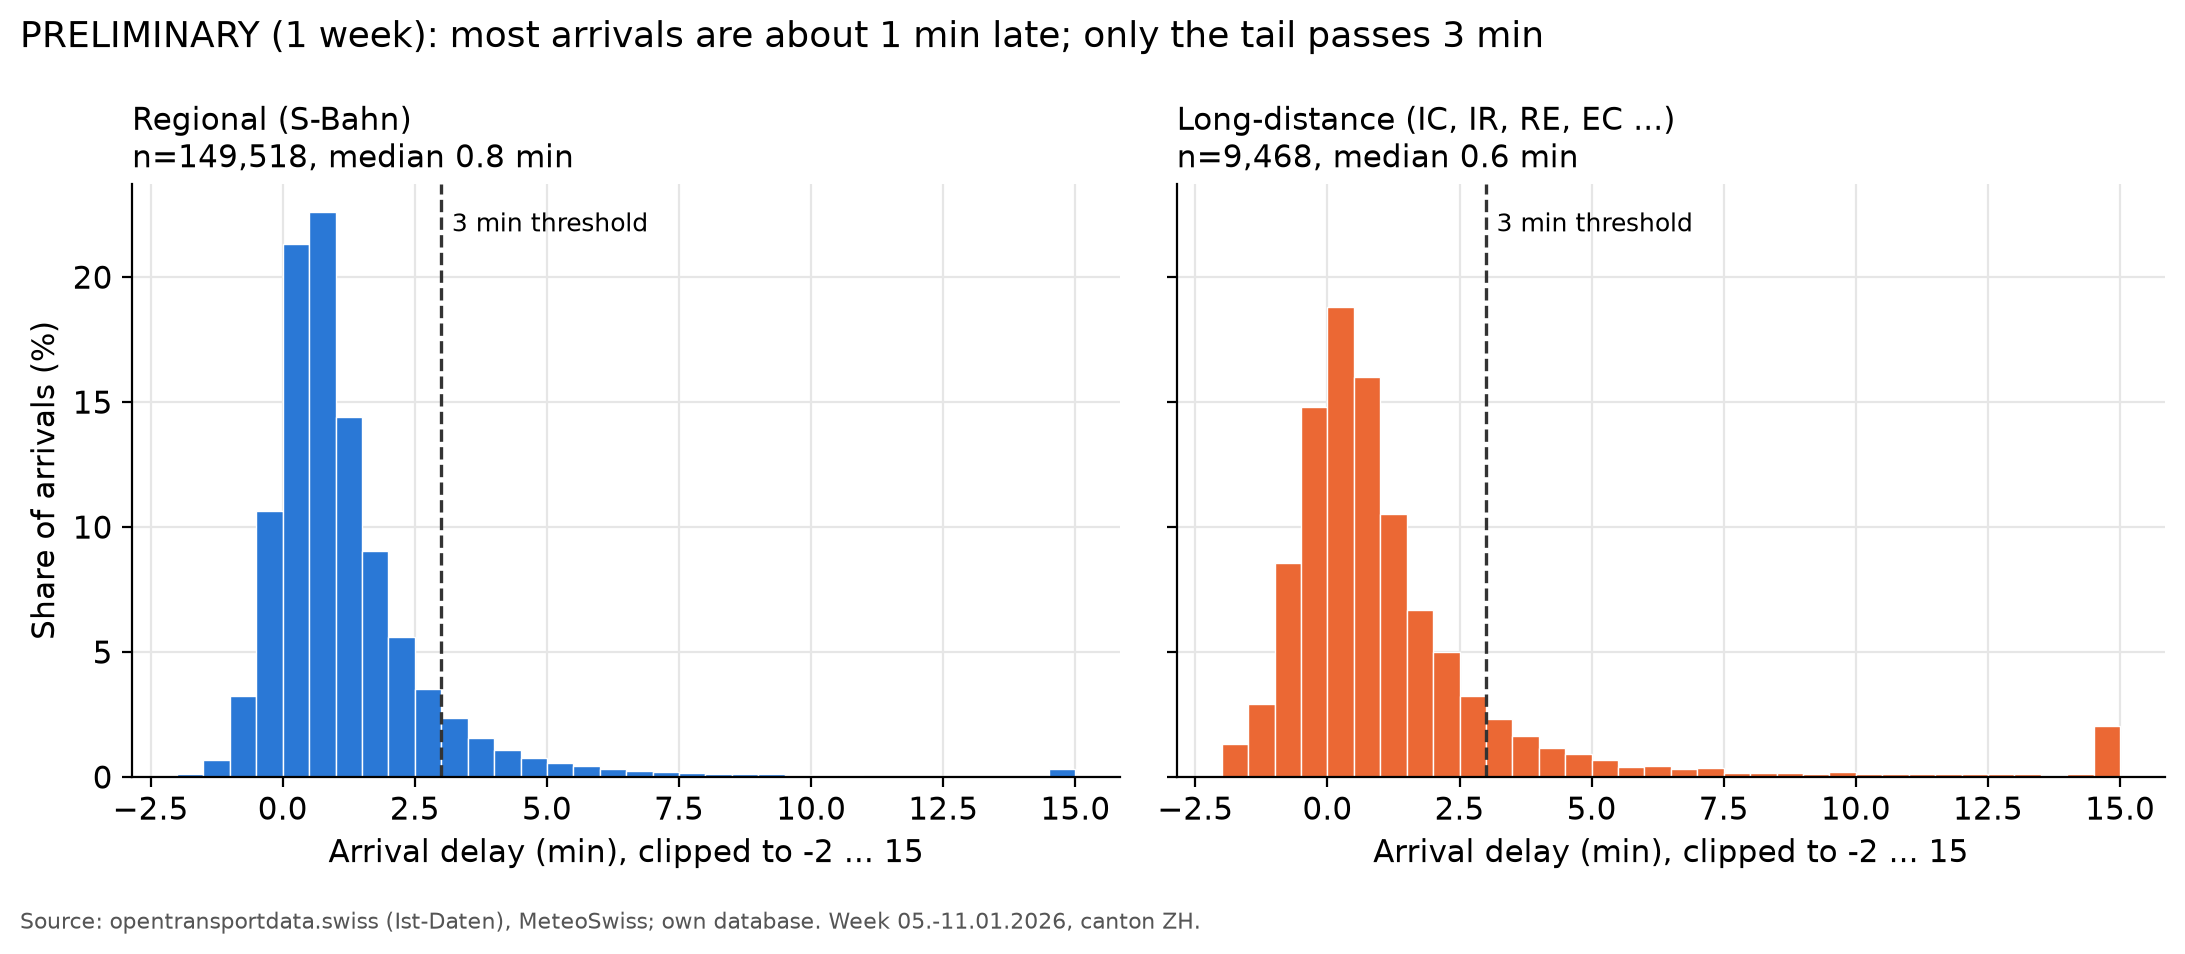
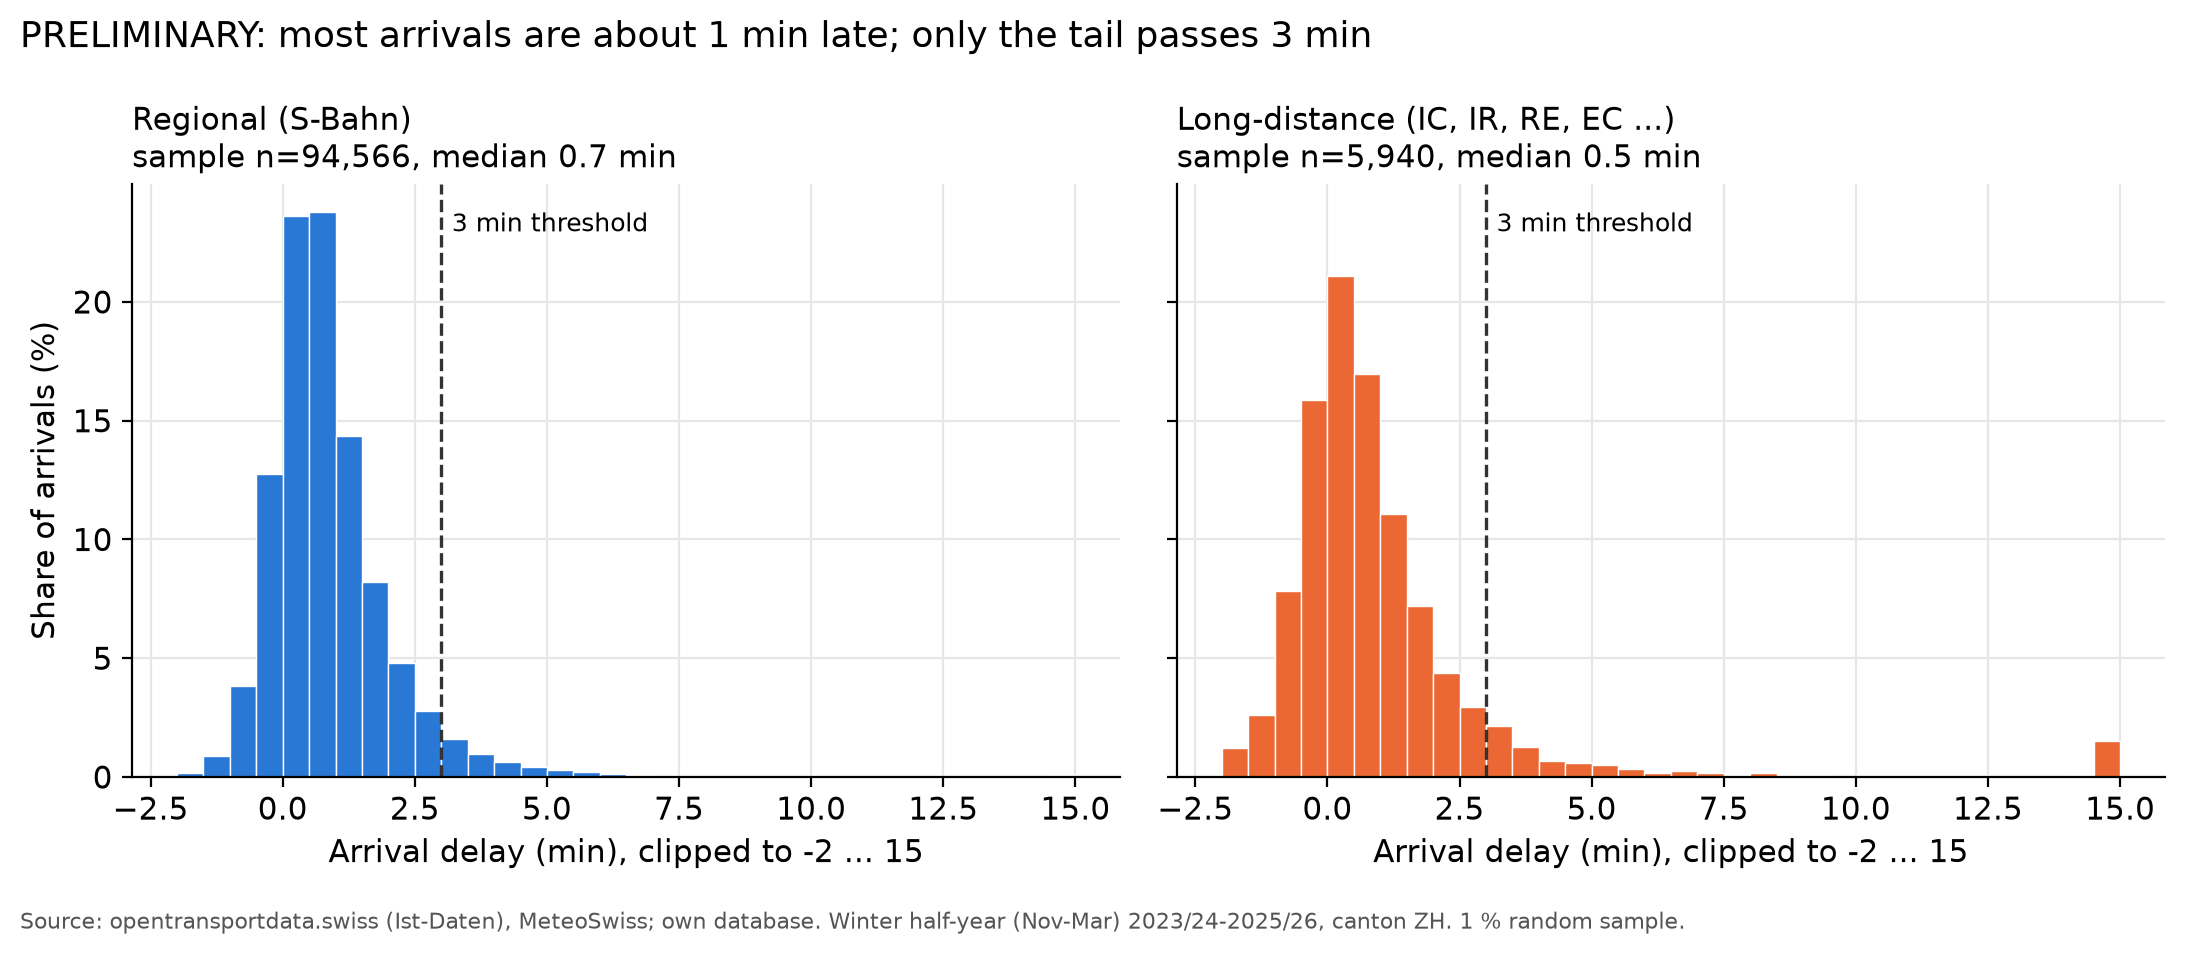
Full build: safety rules for entry delay, quality report incl. duplicates, EDA and slide figures on the full period, docs for checkpoint 3

diff --git a/tests/test_entry_delay.py b/tests/test_entry_delay.py
@@ -66,16 +66,22 @@ def check_database():
     bad_same = query("""
         SELECT COUNT(*) AS n FROM arrivals
         WHERE entry_delay_min IS NOT NULL AND entry_from_bpuic = bpuic""")["n"][0]
-    # Times are 'YYYY-MM-DD HH:MM:SS' text in UTC, so text comparison = time comparison
+    # Times are 'YYYY-MM-DD HH:MM:SS' text in UTC, so text comparison = time comparison.
+    # Equal minute is allowed: scheduled times are rounded to minutes, and two stops can
+    # be one minute apart; the departure there still happens before the arrival here.
     bad_time = query("""
         SELECT COUNT(*) AS n FROM arrivals
-        WHERE entry_delay_min IS NOT NULL AND NOT (entry_from_time_utc < sched_arr_utc)""")["n"][0]
+        WHERE entry_delay_min IS NOT NULL AND NOT (entry_from_time_utc <= sched_arr_utc)""")["n"][0]
+    same_minute = query("""
+        SELECT COUNT(*) AS n FROM arrivals
+        WHERE entry_delay_min IS NOT NULL AND entry_from_time_utc = sched_arr_utc""")["n"][0]
+    print(f"info: {same_minute} rows where the source departure and this arrival have the same scheduled minute")
     total = query("SELECT COUNT(*) AS n, SUM(CASE WHEN entry_delay_min IS NOT NULL THEN 1 ELSE 0 END) AS with_value FROM arrivals")
     assert bad_inside == 0, f"{bad_inside} rows take entry_delay from a stop inside the area"
     assert bad_same == 0, f"{bad_same} rows take entry_delay from their own stop"
     assert bad_time == 0, f"{bad_time} rows take entry_delay from a departure not before the arrival"
     print(f"OK database: {int(total.with_value[0]):,} of {int(total.n[0]):,} rows with a value; all from a stop "
-          "outside the area, never the own stop, always departed before the scheduled arrival")
+          "outside the area, never the own stop, departed before or in the same scheduled minute as the arrival")
 
     nulls = query("""
         SELECT traffic_type, COUNT(*) AS arrivals,

diff --git a/src/arrivals.py b/src/arrivals.py
@@ -105,6 +105,14 @@ def prepare_arrivals(raw, stop_ids):
                  "sched_dep_utc": "entry_from_time_utc"})
     # Left merge: every row keeps its place; trips without a stop before the area get NaN
     df = df.merge(entry, on="FAHRT_BEZEICHNER", how="left")
+    # Safety rules (found in the full build: 19 rows on 18 days):
+    # - a source departure scheduled AFTER this arrival cannot be known before it -> NULL
+    #   (equal minute is fine: stops one minute apart, times rounded to minutes)
+    # - departure delays outside the plausibility limits are data errors -> NULL
+    late_source = df["entry_from_time_utc"] > df["sched_arr_utc"]
+    df.loc[late_source, ["entry_delay_min", "entry_from_bpuic", "entry_from_time_utc"]] = pd.NA
+    for col in ["prev_dep_delay_min", "entry_delay_min"]:
+        df.loc[~df[col].between(DELAY_MIN_LIMIT, DELAY_MAX_LIMIT), col] = float("nan")
 
     # Delay gain since the previous stop. ATTENTION: contains this arrival's delay,
     # so it is an alternative OUTCOME, never a model feature (leakage).

diff --git a/src/quality_report.py b/src/quality_report.py
@@ -54,7 +54,7 @@ def main():
     day_rows = log[log.step.isin(days)]
     metrics = ["raw_rows", "raw_trip_rows", "removed_outside_area", "area_rows", "removed_no_scheduled_arrival",
                "removed_pass_through", "removed_cancelled", "removed_not_real", "removed_other_category",
-               "removed_implausible_delay", "times_not_convertible", "arrivals"]
+               "removed_implausible_delay", "removed_duplicate", "times_not_convertible", "arrivals"]
     totals = day_rows[day_rows.metric.isin(metrics)].groupby("metric")["value"].sum().reindex(metrics)
     totals = totals.astype("Int64").reset_index().rename(columns={"value": "rows (all days)"})
     add("Filter steps summed over all days", totals)

diff --git a/docs/integration-log.md b/docs/integration-log.md
@@ -12,6 +12,8 @@ Required for grading: document how the sources were combined – keys, joins, in
 | MeteoSwiss SMN, hourly | STAC `ch.meteoschweiz.ogd-smn`, 18 stations, `h_historical_2020-2029` + `h_recent`, script `src/weather.py` | 01.01.2020 – 02.11.2026 (PFA from 08.12.2022) | 59,952 hours per station (PFA 34,214) | 2026-11-03 | ER (Claude Code) |
 | MeteoSwiss precipitation network, hourly | STAC `ch.meteoschweiz.ogd-smn-precip`, 16 stations used, `h_historical_2020-2029` + `h_recent`, script `src/weather.py` | 01.11.2023 – 31.03.2026 used | complete: 24 × days rows per month, 0 missing values (`tests/test_weather_complete.py`) | 2026-11-03 | ER (Claude Code) |
 | Ist-Daten v1 (archive) | `archive.opentransportdata.swiss/istdaten/2026/ist-daten-2026-01.zip` (1.37 GB), entry page `archive.opentransportdata.swiss/actual_data_archive.htm`, script `src/istdaten.py` | prototype week 05.–11.01.2026 | 16,662,533 (7 days) | 2026-11-03 | ER (Claude Code) |
+| Ist-Daten v1 (archive), full study period | 15 monthly ZIPs `ist-daten-YYYY-MM.zip`, Nov–Mar 2023/24–2025/26, 16 GB on disk (kept until after submission) | 454 days, 450 loaded | 1,005,650,252 | 2026-11-04 | ER (Claude Code) |
+| MeteoSwiss manual stations (validation only) | STAC `ch.meteoschweiz.ogd-nime`, daily fresh snow `hns000d0`, 7 stations co-located with SMN | study period | – | 2026-11-04 | ER (Claude Code) |
 | MeteoSwiss SMN, metadata | `ogd-smn_meta_stations.csv` (159 stations), `_meta_parameters.csv` (181 parameters), `_meta_datainventory.csv` | – | – | 2026-11-03 | ER (Claude Code) |
 
 ## Cleaning and filter steps
@@ -28,6 +30,15 @@ Required for grading: document how the sources were combined – keys, joins, in
 | F3f | same | category S or long-distance list | 160,831 | 158,988 | 1,843 | 1,830 night S-Bahn `SN` (Sat/Sun 00–04 h): excluded, decided by ER 2026-11-03, because no long-distance trains run at that time (night hours would exist for one group only); RJ (3/day) is long-distance since Checkpoint 2; EXT excluded |
 | F3g | same | arrival delay between −15 and +300 min | 158,988 | 158,986 | 2 | implausible values (limits = proposal, Checkpoint 2) |
 | F3h | same | local → UTC conversion | 158,986 | 158,986 | 0 | no time in the spring-forward gap (`tests/test_dst.py`) |
+| F4 | Ist-Daten full study period (450 days, `python -m src.build_db --study-period`, `src/quality_report.py`) | same rules as F3, plus duplicates | 1,005,650,252 raw → 18,746,168 trip rows → 11,599,296 in ZH | 10,104,173 | – | see F4a–F4h |
+| F4a | same | scheduled arrival exists | 11,599,296 | 10,811,815 | 787,481 | first stop of a trip |
+| F4b | same | no pass-through | 10,811,815 | 10,809,325 | 2,490 | train does not stop |
+| F4c | same | not cancelled | 10,809,325 | 10,666,795 | 142,530 | decision ER (count reported) |
+| F4d | same | status REAL | 10,666,795 | 10,230,541 | 436,254 | decision ER |
+| F4e | same | category S or long-distance (incl. RJ) | 10,230,541 | 10,107,193 | 123,348 | mainly night S-Bahn `SN`, EXT, PE |
+| F4f | same | delay −15 … +300 min | 10,107,193 | 10,104,207 | 2,986 | implausible values |
+| F4g | same | exact duplicate rows in the source | 10,104,207 | 10,104,173 | 34 | same trip, stop and time twice (6 days) |
+| F4h | same | departure delays used as predictors: −15 … +300 min, source departure not after the arrival | 10,104,173 | 10,104,173 | 0 rows, 19 values set to NULL | data errors (e.g. RJX with −116 min) |
 | F2 | Ist-Daten 21.10.2026 | `PRODUKT_ID = 'Zug'` and `BPUIC` in the 182 ZH stops, 16 of 23 columns kept | 2,583,004 | 25,549 | 2,557,455 | other modes (bus, tram …) and stops outside ZH. 156 of 182 stops have rows; the 26 missing are mostly Forchbahn S18 stops, which the data codes as `PRODUKT_ID = 'Tram'` with 9-digit BPUIC |
 
 ## Joins
@@ -38,6 +49,8 @@ Required for grading: document how the sources were combined – keys, joins, in
 | J2 → table `stop_station` (2026-11-03) | 182 ZH train stops | precipitation: 17 SMN + 142 `ogd-smn-precip` stations; temperature: 17 SMN | nearest neighbour in LV95, `sjoin_nearest`, ties → first station | left | 182 | 182 | 0 unmatched, 0 duplicates | precipitation: median 3.6 km, max 10.3 km, 1 stop > 10 km; temperature: median 7.4 km, max 14.9 km, 36 stops > 10 km. 26 stations used (`weather_stations`) |
 
 | J3 → table `analysis_base` (SQL, `src/analysis_base.sql`) | `arrivals` (week 05.–11.01.2026) | `stops`, `stop_station`, `weather_hourly` (twice: precipitation station, temperature station), `calendar_days` | `bpuic`; (`precip_station`, `weather_hour_utc`) = (`station_abbr`, `time_utc`); (`temp_station`, `weather_hour_utc`); `local_date` | inner (stops, stop_station), left (weather, calendar) | 158,986 | 158,986 | 0 lost; 0 without precipitation, 0 without temperature, 0 without calendar | weather hour = scheduled arrival in UTC floored to the hour = last full hour before arrival. 5 rows checked by hand against the raw CSV and the raw MeteoSwiss files: all match (Checkpoint 2) |
+
+| J4 → `analysis_base` full period | `arrivals` (10,104,173) | as J3 | as J3 | as J3 | 10,104,173 | 10,104,173 | 0 lost; 0 without precipitation, 26 without temperature (sensor gaps, all dry hours, so `precip_cat` is set), 0 without calendar | quality report `data/processed/quality_report.md`; tests `test_dst`, `test_weather_complete`, `test_entry_delay` pass |
 
 ## Inconsistencies found
 
@@ -52,3 +65,7 @@ Required for grading: document how the sources were combined – keys, joins, in
 | 2026-11-03 | No official Christmas school-holiday dates found for 2023/24 and 2024/25 | calendar | derived from the binding canton rule (KW 52 + KW 1), marked as derived in `src/calendar_zh.py` |
 | 2026-11-04 | Snow definition vs. measured fresh snow (`ogd-nime`, 7 co-located stations) | 3,161 station-days | hit rate 75 %, precision 65 % → definition kept, limitation named |
 | 2026-11-03 | 21.10.2026: 1,169 cancelled rows at ZH stops (4.6 %), 686 of them S10 (SZU) | 1,169 | VERIFY cause (planned construction work?) |
+| 2026-11-04 | Archive ZIP 2025-01: the days 28.–31.01.2025 are compressed with **Deflate64** (ZIP method 9), which Python's `zipfile` and Windows `tar` cannot read | 4 of 454 days missing | open: proposal to add the package `zipfile-deflate64` (needs ER's OK); the build logs them as ERROR and loads them on the next run |
+| 2026-11-04 | 34 exact duplicate rows in the source (6 days, lines S17, S29, S1, IR35, IR46) | 34 | removed (F4g) |
+| 2026-11-04 | Night trains of 31.03.2026 arrive on 01.04. → no calendar day | 523 | calendar extended to 01.04.2026 |
+| 2026-11-04 | Departure at the stop before the area scheduled after the area arrival (RJX, 09.03.2024, −116 min); 18 implausible departure delays | 19 values | set to NULL (F4h); test `test_entry_delay` checks it |

diff --git a/docs/project-state.md b/docs/project-state.md
@@ -41,7 +41,7 @@ Cross-cutting, each person takes a share: GitHub, AI log, slides, video.
 
 | Source | Access | Status |
 |---|---|---|
-| Ist-Daten (daily files) | **by script**: portal (DCAT catalogue, last ~30 days) + archive (monthly ZIPs since 2016) | prototype week 05.–11.01.2026 in the DB: 158,986 arrivals (`src/build_db.py`); full period (15 ZIPs, 17.05 GB) waits for ER's OK |
+| Ist-Daten (daily files) | **by script**: portal (DCAT catalogue, last ~30 days) + archive (monthly ZIPs since 2016) | **done** for 450 of 454 days: 10,104,173 arrivals in `analysis_base` (SQLite, 5.0 GB); 28.–31.01.2025 missing (Deflate64, open) |
 | MeteoSwiss Open Data – STAC API | Web API (`ogd-smn` + `ogd-smn-precip`) | 26 stations used, hourly, complete for all 15 study months (`tests/test_weather_complete.py`) |
 | Service point directory (stop coordinates) | download by script (`service-point-v2`) | 182 ZH train stops; table `stop_station` (precipitation median 3.6 km, temperature 7.4 km) |
 
@@ -106,7 +106,11 @@ Full Moodle text captured 2026-10-28 → `docs/grading.md`.
 | 2026-11-03 | Precipitation from SMN + `ogd-smn-precip`, temperature from SMN, HOE excluded | median distance 7.4 → 3.6 km |
 | 2026-11-03 | Effect measure: absolute (pp) primary, risk ratio as robustness check | intuitive |
 | 2026-11-03 | Study period: winter half-year (Nov–Mar) 2023/24–2025/26 | more dry/rain hours, three winters |
-| 2026-11-03 | Controls: winter, month, holiday (incl. school holidays), hour, weekday, rush_hour | confounding; school holiday definition open (Sportferien differ per municipality) |
+| 2026-11-03 | Controls: winter, month, holiday, hour, weekday, rush_hour (Mon–Fri 06:00–08:59, 16:00–18:59 local) | confounding |
+| 2026-11-03 | holiday = legal public holidays + Christmas school holidays (2023/24, 2024/25 derived from the canton rule KW 52 + 1); Sportferien not modelled (limitation) | only Christmas holidays are binding canton-wide |
+| 2026-11-03 | Night S-Bahn `SN` excluded; `RJ` = long-distance; delays outside −15 … +300 min removed | night hours exist only for regional traffic; data errors |
+| 2026-11-03 | `entry_delay_min` = departure delay at the last stop before the area (NULL if the trip starts inside); `delay_gain_min` = outcome, never a feature | no leakage (tested) |
+| 2026-11-03 | Raw ZIPs kept until after submission; `analysis_base` as table built by SQL | reproducibility; SQL join provable and fast |
 
 ## Change log
 
@@ -119,3 +123,4 @@ Full Moodle text captured 2026-10-28 → `docs/grading.md`.
 - 2026-11-03 ER: concept presentation skeleton (`presentation/concept_presentation_group_03.pptx`) and checklist (`docs/concept-presentation-checklist.md`) added. Dry run moved from Sun 15.11. to Mon 16.11. (ER away 07.–15.11.), slide draft stays with LS and LK.
 - 2026-11-03 ER: data collection Phase 1 (sources explored, VERIFY results in `research-design.md`, logs). Waiting at Checkpoint 1 for the DECIDE items and the study period.
 - 2026-11-03 ER: Checkpoint 1 decisions recorded (#5, #9 closed). Phase 2 prototype end-to-end: schema, week 05.–11.01.2026 in SQLite, SQL join `analysis_base`, DST and weather tests, first EDA (preliminary). PRs #35–#38 open. Waiting at Checkpoint 2 (open: school holidays, `SN`/`RJ`, plausibility limits, rush hour definition, OK for the full download).
+- 2026-11-04 ER: Checkpoint 2 decisions recorded (SN excluded, RJ long-distance, holidays, rush hour, plausibility, entry_delay before the area). Phase 3 full build done in 62 min: 450/454 days, 10.1 million arrivals, quality report, tests pass, snow definition validated (hit rate 75 %), team export 78 MB (Parquet, OneDrive/Teams, not on GitHub). Waiting at Checkpoint 3 (open: Deflate64 package for 4 days).

diff --git a/docs/ai-log.md b/docs/ai-log.md
@@ -15,6 +15,7 @@ Add an entry **when it happens**, not at the end of the project.
 | 2026-11-03 | ER | Claude Code | Phase 1 data collection: explore Ist-Daten portal/archive, MeteoSwiss STAC, service points; prototype scripts `src/download.py`, `src/istdaten.py`, `src/weather.py`, `src/stops.py`; VERIFY of columns, time zones, parameter codes | used, numbers checked on real files | Brief assumed a CKAN API for the current month: the action API returns 403, so file lists come from the DCAT catalogue instead. First read of Ist-Daten with the wrong encoding (cp1252 instead of UTF-8) crashed and was fixed. Cookbook example (comma, `_id` column) did not match the real files. Time zone of Ist-Daten not documented; Claude proposed a DST test instead of assuming |
 | 2026-11-03 | ER | Claude Code | Phase 2 prototype: precipitation network, `stop_station`, downloader with retries/ETag, schema, `src/arrivals.py`, SQL join to `analysis_base`, DST and weather completeness tests, ER diagram, first EDA notebook and figures | used; 5 rows checked by hand against raw files | Claude claimed the checklist's key-facts table contained Q&A rows; wrong (it had read two concatenated outputs), corrected by ER. Brief asked for `delay_gain` "known before arrival", which is contradictory (it contains the arrival delay) → split into predictors (`prev_dep_delay_min`, `entry_delay_min`) and an outcome (`delay_gain_min`). Build log CSV was malformed (different columns per step) → long format. Wrong date (04.11.) written into the integration log → fixed. First ER diagram had arrows over the text → redrawn. Weekend night S-Bahn (`SN`) silently fell out of the filter → found in the counts, decision pending |
 | 2026-11-03 | ER | Claude Code | Research for decisions: SBB 3-min source, MeteoSwiss download docs, MeteoSwiss GitHub, data collections A–D, ZH school holidays | partly used | Official ZH school-holiday dates for 2023/24 and 2024/25 not found online; Sportferien are set per municipality, so the decided "school holidays canton ZH" variable cannot be built as one flag |
+| 2026-11-04 | ER | Claude Code | Phase 3: full build (454 days, 1.0 billion raw rows → 10.1 million arrivals), entry_delay definition and test, snow validation with ogd-nime, quality report, team export and loader, EDA on the full period | used; all numbers from scripts in `src/` | New tests found real problems that the first build had: 34 duplicate source rows, 523 arrivals without calendar day (night trains after 31.03.), 3 rows where the "before the area" departure was not before the arrival (two same-minute cases, one RJX data error with −116 min). A first version used `Series.map` on an empty datetime series and crashed (pandas 3) → `merge`. `--reset` left old day files in place → fixed. Four days could not be read (Deflate64 in the archive ZIP); not solvable without a new package. `data/export/` was not in `.gitignore` (manifest.csv would have been committable) → fixed |
 
 ## Summary for the final presentation
 

diff --git a/docs/onboarding.md b/docs/onboarding.md
@@ -61,7 +61,8 @@ You do **not** need to download the raw data. ER shares the team export.
 
 1. **Where:** OneDrive/Teams, in the folder ER announces in the team chat
    (suggested name `DA_team_export`; size and date are in `manifest.csv`).
-   It is never on GitHub.
+   It is never on GitHub. Size: 78 MB; loading takes about 3 minutes and
+   creates a database of about 2.4 GB (10.1 million arrivals).
 2. **Load it:** copy the folder to `data/export/team/` in your repo, then
    `python -m src.load_shared data/export/team`. It replaces the tables in your
    database (SQLite by default, PostgreSQL if `DATABASE_URL` is set).

diff --git a/README.md b/README.md
@@ -90,7 +90,7 @@ The code works with SQLite and PostgreSQL alike (`src/db.py`, SQLAlchemy). Targe
 
 ## Rebuild the data
 
-Option A, the fast way (team members): load the team export (Parquet, about 100 MB+)
+Option A, the fast way (team members): load the team export (Parquet, 78 MB, about 3 min to load)
 that ER shares in OneDrive/Teams, see `docs/onboarding.md` § 9:
 
 ```bash
